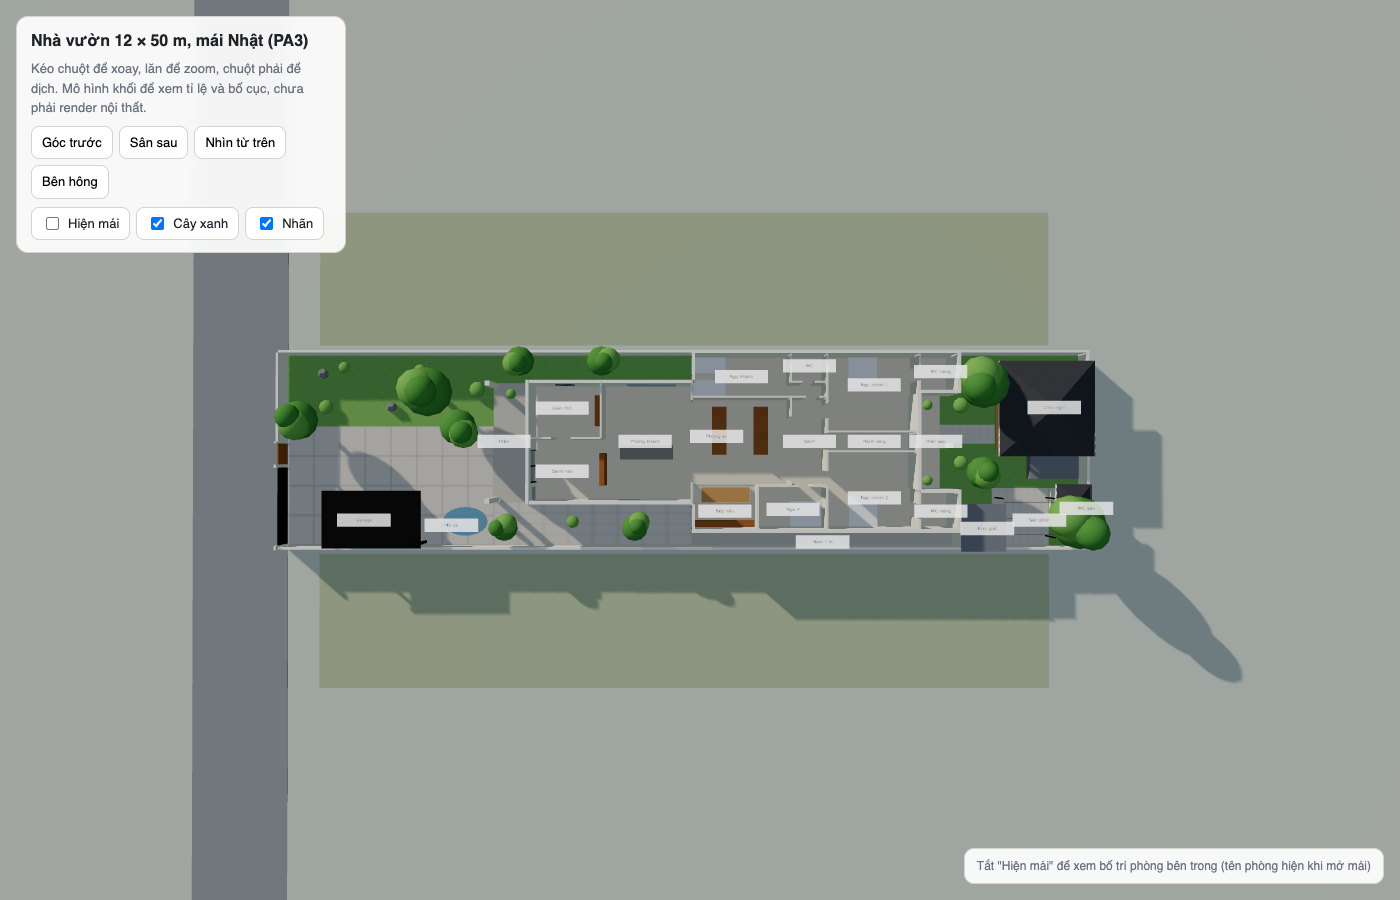
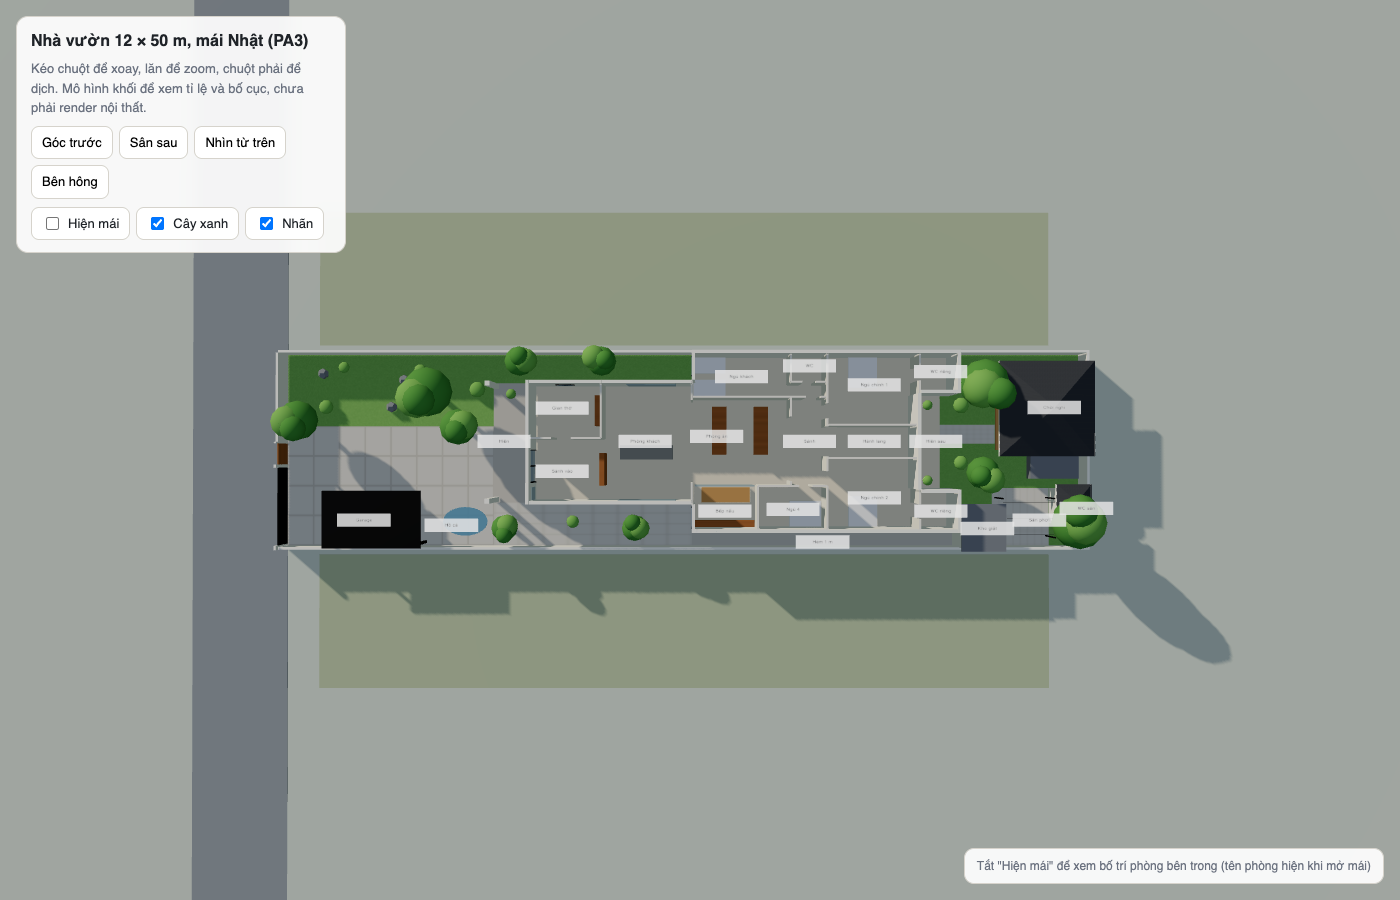
Hành lang ra sau rộng 2 m, cửa 2 cánh, master 4,5 x 5,6

diff --git a/mat-bang-nha-12x50.html b/mat-bang-nha-12x50.html
@@ -82,7 +82,7 @@
       <h2 style="margin-top:0">Ý đồ thiết kế</h2>
       <ul>
         <li><b>Gian trước 7,5 × 12,5 m</b>: hiên 2,5 m, rồi gian thờ 3,5 × 4,5 m bên trái và sảnh vào 4 × 4,5 m bên phải, sau đó là phòng khách 7,5 × 5,5 m. Gian thờ là phòng đầu tiên của nhà, bàn thờ đặt sát tường trong nhìn thẳng ra đường, có cửa sổ tròn bên hông và cửa sổ ra hiên. Cửa 2 cánh mở từ sảnh vào. Toàn bộ gian trước không có WC.</li>
-        <li><b>Gian ngang 11 × 13,8 m</b> chừa hẻm 1 m bên phải. Giữa nhà là phòng ăn 5,4 × 6 m dưới giếng trời. Bên trái là phòng ngủ khách 2,8 × 8,2 m chạy suốt hai hàng, 2 giường đơn 1 × 2 m đặt song song theo chiều dài phòng, đầu tựa tường trước. Cửa sổ tường trước nâng cao, mép dưới 1,9 m, để không nằm ngay sau đầu giường. Cuối phòng có WC riêng và hốc tủ áo. Bên phải là bếp nấu 2,8 × 4 m tựa tường hẻm, ngăn với phòng ăn bằng vách kính lùa và đảo 3 m, có cửa phụ ra hẻm. Sau bếp nấu là ngủ 4. Hàng giữa: sảnh. Hàng sau: ngủ chính 1 và 2 mỗi phòng 4,9 × 5,6 m, 27,4 m² trọn vẹn, cửa mở từ sảnh chính. Giữa hai phòng là hành lang 1,2 m, là lối duy nhất trong nhà đi ra hiên sau và sân sau.</li>
+        <li><b>Gian ngang 11 × 13,8 m</b> chừa hẻm 1 m bên phải. Giữa nhà là phòng ăn 5,4 × 6 m dưới giếng trời. Bên trái là phòng ngủ khách 2,8 × 8,2 m chạy suốt hai hàng, 2 giường đơn 1 × 2 m đặt song song theo chiều dài phòng, đầu tựa tường trước. Cửa sổ tường trước nâng cao, mép dưới 1,9 m, để không nằm ngay sau đầu giường. Cuối phòng có WC riêng và hốc tủ áo. Bên phải là bếp nấu 2,8 × 4 m tựa tường hẻm, ngăn với phòng ăn bằng vách kính lùa và đảo 3 m, có cửa phụ ra hẻm. Sau bếp nấu là ngủ 4. Hàng giữa: sảnh. Hàng sau: ngủ chính 1 và 2 mỗi phòng 4,5 × 5,6 m, 25,2 m² trọn vẹn, cửa mở từ sảnh chính. Giữa hai phòng là hành lang rộng 2 m, cuối có cửa 2 cánh 1,6 m ra hiên sau. Đây là lối chính trong nhà đi ra sân sau, đủ rộng để bưng đồ ăn ra chòi khi có tiệc.</li>
         <li><b>Hai WC riêng 2,4 × 2,6 m</b> nhô ra phía hiên sau, nằm trong mép mái đua sẵn có nên không phải làm thêm mái. Mỗi WC có ba mặt ngoài, cửa sổ hai phía, rất thoáng. Hiên sau thu lại còn 5,8 m nằm giữa hai WC, thành một góc ngồi kín đáo hơn. Mỗi phòng master có cửa kính ra thẳng hiên.</li>
         <li><b>4 WC</b>: WC riêng 1 và 2 cho hai phòng ngủ chính, nhô ra phía hiên sau. WC 2,2 × 1,9 m nằm trong phòng ngủ khách. WC sân vườn 2 × 2,2 m cạnh chòi và BBQ, dùng khi tiệc ngoài trời. Không WC nào nằm giữa nhà hay gần gian thờ. <b>Lưu ý:</b> phòng ngủ 4 hiện không có WC chung gần, xem mục cần cân nhắc.</li>
         <li><b>Hẻm 1 m</b> chạy từ sân bên phải gian trước ra thẳng sân sau. Đủ cho người đi lại thoải mái, mang đồ, đẩy xe rác hoặc máy cắt cỏ ra sau mà không phải đi xuyên nhà. Dắt xe máy thì hơi chật, cần khoảng 1,2 m.</li>
@@ -276,9 +276,9 @@ const rooms=[
   {n:'NGỦ 4',d:[29.5,33.7],w:[8.2,11.0],f:'--c-bed'},
   {n:'WC',d:[31.5,33.7],w:[0,1.9],f:'--c-wet',small:true,sub2:'2,2 × 1,9'},
   {n:'SẢNH',d:[31.5,33.7],w:[2.8,8.2],f:'--c-hall'},
-  {n:'NGỦ CHÍNH 1',d:[33.7,39.3],w:[0,4.9],f:'--c-bed',sub:'WC riêng phía sau'},
-  {n:'hành lang ra sau 1,2 m',d:[33.7,39.3],w:[4.9,6.1],f:'--c-hall',small:true,vert:true},
-  {n:'NGỦ CHÍNH 2',d:[33.7,39.3],w:[6.1,11.0],f:'--c-bed',sub:'WC riêng phía sau'},
+  {n:'NGỦ CHÍNH 1',d:[33.7,39.3],w:[0,4.5],f:'--c-bed',sub:'WC riêng phía sau'},
+  {n:'hành lang ra sau 2 m',d:[33.7,39.3],w:[4.5,6.5],f:'--c-hall',small:true,vert:true},
+  {n:'NGỦ CHÍNH 2',d:[33.7,39.3],w:[6.5,11.0],f:'--c-bed',sub:'WC riêng phía sau'},
   {n:'WC RIÊNG 1',d:[39.3,41.7],w:[0,2.6],f:'--c-wet'},
   {n:'HIÊN SAU 1,8 × 5,8 · 10,4 m²',d:[39.3,41.1],w:[2.6,8.4],f:'--c-living',open:true,small:true,vert:true},
   {n:'WC RIÊNG 2',d:[39.3,41.7],w:[8.4,11.0],f:'--c-wet'},
@@ -320,7 +320,7 @@ const rooms=[
   rect(g,m,26.1,29.1,8.35,9.25,{fill:'#d9c6a5',stroke:'#8b5a2b','stroke-width':1,rx:2}); label(g,m,27.6,8.9,'ĐẢO 3 m · buffet',{size:9,fill:'#5b3a1a'});
   function bed(d1,d2,w1,w2,head){rect(g,m,d1,d2,w1,w2,F); const h=0.35; if(head==='w0')rect(g,m,d1+0.1,d2-0.1,w1,w1+h,{fill:'#e5e7eb',rx:2}); if(head==='w1')rect(g,m,d1+0.1,d2-0.1,w2-h,w2,{fill:'#e5e7eb',rx:2}); if(head==='d1')rect(g,m,d2-h,d2,w1+0.1,w2-0.1,{fill:'#e5e7eb',rx:2}); if(head==='ds')rect(g,m,d1,d1+h,w1+0.1,w2-0.1,{fill:'#e5e7eb',rx:2});}
   bed(25.6,27.6,0.2,1.2,'ds'); bed(25.6,27.6,1.6,2.6,'ds'); rect(g,m,25.6,26.0,1.25,1.55,F); rect(g,m,31.7,33.5,2.2,2.7,{fill:'#e5e7eb',rx:2}); bed(31.6,33.6,9.2,10.8,'d1'); bed(35.3,37.1,0.1,2.1,'w0'); bed(35.3,37.1,8.9,10.9,'w1');
-  rect(g,m,36.4,39.1,4.3,4.8,{fill:'#e5e7eb',rx:2}); rect(g,m,36.4,39.1,6.2,6.7,{fill:'#e5e7eb',rx:2}); // tủ áo
+  rect(g,m,36.4,39.1,3.9,4.4,{fill:'#e5e7eb',rx:2}); rect(g,m,36.4,39.1,6.6,7.1,{fill:'#e5e7eb',rx:2}); // tủ áo
   function plant(d,w,r){const cx=m.x(d),cy=m.y(w),R=(r||0.3)*m.S; el('circle',{cx,cy,r:R,fill:'#4f9a5a'},g); el('circle',{cx:cx-R*.3,cy:cy-R*.3,r:R*.45,fill:'#7cc27f'},g);}
   plant(14.2,2.5,0.3); plant(16.3,6.0,0.3); plant(24.9,2.2,0.25); plant(24.9,8.9,0.22); plant(31.0,7.8,0.18); plant(32.6,5.0,0.2); plant(34.3,5.5,0.18); plant(40.2,3.2,0.3); plant(40.2,7.9,0.3);
   rect(g,m,26.6,30.4,3.1,6.5,{fill:'none',stroke:'#3b82f6','stroke-width':1,'stroke-dasharray':'3 3'}); // giếng trời
@@ -350,9 +350,8 @@ const rooms=[
   wall(31.5,0,31.5,1.9,ti); wall(31.5,2.8,31.5,8.2,ti);
   wall(31.5,1.9,33.7,1.9,ti);
   wall(33.7,0,33.7,11.0,ti);
-  wall(33.7,4.9,39.3,4.9,ti); wall(33.7,6.1,39.3,6.1,ti);
+  wall(33.7,4.5,39.3,4.5,ti); wall(33.7,6.5,39.3,6.5,ti);
   wall(39.3,0,39.3,2.6,ti); wall(39.3,8.4,39.3,11.0,ti);
-  [5.75].forEach(w=>el('rect',{x:m.x(40.9)-4,y:m.y(w)-4,width:8,height:8,fill:W},g));
 
   function opening(d1,w1,d2,w2,fill){el('line',{x1:m.x(d1),y1:m.y(w1),x2:m.x(d2),y2:m.y(w2),stroke:fill,'stroke-width':t+1},g);
     el('line',{x1:m.x(d1),y1:m.y(w1),x2:m.x(d2),y2:m.y(w2),stroke:css('--muted'),'stroke-width':1,'stroke-dasharray':'4 3'},g);}
@@ -361,7 +360,7 @@ const rooms=[
   opening(20,5.4,20,9.2,css('--c-living'));
   opening(25.5,3.0,25.5,8.0,css('--c-kitchen'));
   opening(31.5,4.0,31.5,7.9,css('--c-hall'));
-  opening(33.7,5.0,33.7,6.0,css('--c-hall'));
+  opening(33.7,4.6,33.7,6.4,css('--c-hall'));
   door(15.5,6.0,15.5,8.0);
   door(17,5.3,18.2,5.3);
   door(32.4,2.8,33.3,2.8); door(32.0,8.2,32.8,8.2);   // ngủ khách, ngủ 4
@@ -370,7 +369,7 @@ const rooms=[
   door(32.2,1.9,33.0,1.9);
   door(33.7,3.2,33.7,4.1); door(33.7,7.3,33.7,8.2);       // cửa 2 master từ sảnh
   door(39.3,0.9,39.3,1.8); door(39.3,9.3,39.3,10.2);       // master -> WC riêng
-  door(39.3,5.05,39.3,5.95);                               // hành lang ra hiên sau
+  door(39.3,4.7,39.3,6.3);                               // hành lang ra hiên sau
   el('line',{x1:m.x(15.5),y1:m.y(2.5),x2:m.x(15.5),y2:m.y(4.5),stroke:'#8b5a2b','stroke-width':6,'stroke-dasharray':'3 2'},g); win(15.5,8.3,15.5,9.1);
   rect(g,m,19.85,20.15,6.2,8.2,{fill:'#b5763f'}); for(let w=6.3;w<8.2;w+=0.25) el('line',{x1:m.x(19.85),y1:m.y(w),x2:m.x(20.15),y2:m.y(w),stroke:'#f4f1ea','stroke-width':1},g);
   label(g,m,20.6,7.2,'lam gỗ',{size:8,fill:'#8b5a2b',rot:-90});
@@ -379,7 +378,7 @@ const rooms=[
   el('line',{x1:m.x(25.5),y1:m.y(0.3),x2:m.x(25.5),y2:m.y(1.5),stroke:'#7cc4ff','stroke-width':5,'stroke-dasharray':'4 2'},g); label(g,m,25.1,0.9,'cửa sổ cao',{size:8,fill:'#1d5f8a',rot:-90}); win(25.5,9.5,25.5,10.8);
   win(27.8,11.0,29.2,11.0); win(30.2,11.0,31.4,11.0); win(32,11.0,33.2,11.0); win(37.4,11.0,38.8,11.0); win(40.0,11.0,41.2,11.0);
   win(41.7,0.5,41.7,2.1); win(41.7,8.9,41.7,10.5); win(40.0,2.6,40.9,2.6); win(40.0,8.4,40.9,8.4);   // cửa sổ WC riêng
-  win(39.3,2.9,39.3,4.6); win(39.3,6.4,39.3,8.1);   // cửa kính master ra hiên
+  win(39.3,2.9,39.3,4.3); win(39.3,6.7,39.3,8.1);   // cửa kính master ra hiên
 
   label(g,m,19.2,-0.8,'GIAN TRƯỚC 7,5 × 12,5 m',{size:12,bold:true});
   label(g,m,33.6,-0.8,'GIAN NGANG 11 × 13,8 m (+ 2 WC riêng và hiên sau 2,4 m, hẻm 1 m)',{size:12,bold:true});
@@ -390,7 +389,7 @@ const rooms=[
   dimV(g,m,0,1.8,12.6,'1,8'); dimV(g,m,1.8,9.3,12.6,'7,5'); dimV(g,m,9.3,12,12.6,'2,7');
   dim(g,m,25.5,33.7,-0.35,'ngủ khách dài 8,2 m (gồm WC 2,2)'); dim(g,m,25.5,29.5,11.8,'bếp nấu 4'); dim(g,m,29.5,33.7,11.8,'ngủ 4: 4,2');
   label(g,m,20.5,0.9,'dải cây xanh 1,8 m',{size:10,fill:css('--muted')}); label(g,m,19,10.7,'sân lát bên phải 2,7 m',{size:10,fill:css('--muted')});
-  dimV(g,m,0,4.9,42.4,'4,9'); dimV(g,m,4.9,6.1,42.4,'1,2'); dimV(g,m,6.1,11.0,42.4,'4,9'); dimV(g,m,11.0,12,42.4,'1');
+  dimV(g,m,0,4.5,42.4,'4,5'); dimV(g,m,4.5,6.5,42.4,'2'); dimV(g,m,6.5,11.0,42.4,'4,5'); dimV(g,m,11.0,12,42.4,'1');
   dimV(g,m,1.8,5.3,15.1,'3,5'); dimV(g,m,5.3,9.3,15.1,'4');
 
   const tbl=document.getElementById('areas');

diff --git a/mat-dung-mat-cat.html b/mat-dung-mat-cat.html
@@ -40,7 +40,7 @@
 
   <h2>4. Mặt cắt B-B (cắt ngang qua 2 phòng ngủ chính)</h2>
   <div class="card"><svg id="secB"></svg>
-    <p class="note">Hẻm 1 m bên phải, mái đua 0,3 m có máng xối nên nước mưa không đổ thẳng xuống hẻm. HL là hành lang 1,2 m ra hiên sau. Tường rào ranh cao 1,8 m.</p>
+    <p class="note">Hẻm 1 m bên phải, mái đua 0,3 m có máng xối nên nước mưa không đổ thẳng xuống hẻm. HL là hành lang 2 m ra hiên sau. Tường rào ranh cao 1,8 m.</p>
   </div>
 
   <div class="card" style="margin-top:16px">
@@ -171,19 +171,19 @@ const tri=(a,b,h)=>(b-a)/2*Math.tan(Math.PI/6)+h;
   L(m,0,CE,11.0,CE,{stroke:'#8a8f96','stroke-width':3});
   R(m,0,11.0,FL-0.15,FL,{fill:C('--cut')}); R(m,-0.2,11.2,0,FL-0.15,{fill:'#cfcbc3'});
   R(m,-0.1,0.1,FL,CE+0.2,{fill:C('--cut')}); R(m,10.9,11.1,FL,CE+0.2,{fill:C('--cut')});
-  R(m,4.85,4.95,FL,CE,{fill:C('--cut')}); R(m,6.05,6.15,FL,CE,{fill:C('--cut')});
+  R(m,4.45,4.55,FL,CE,{fill:C('--cut')}); R(m,6.45,6.55,FL,CE,{fill:C('--cut')});
   // fence on right boundary + gutter
   R(m,11.95,12.1,0,1.8,{fill:C('--wall'),stroke:C('--wallline')});
   R(m,11.05,11.35,EA-0.2,EA,{fill:'#8a8f96'}); T(m,12.6,EA-0.1,'máng xối',{size:10,fill:C('--muted'),anchor:'start'});
   T(m,11.5,0.25,'hẻm 1 m',{size:10,fill:C('--muted')}); T(m,12.6,1.8,'rào ranh 1,8',{size:10,fill:C('--muted'),anchor:'start'});
   // beds
   R(m,0.1,2.1,FL,FL+0.5,{fill:'#fff',stroke:'#9bb6d4'}); R(m,8.9,10.9,FL,FL+0.5,{fill:'#fff',stroke:'#9bb6d4'});
-  R(m,4.3,4.85,FL,CE,{fill:'#e5e7eb',stroke:'#b8b3a8'}); R(m,6.15,6.7,FL,CE,{fill:'#e5e7eb',stroke:'#b8b3a8'});
+  R(m,3.9,4.45,FL,CE,{fill:'#e5e7eb',stroke:'#b8b3a8'}); R(m,6.55,7.1,FL,CE,{fill:'#e5e7eb',stroke:'#b8b3a8'});
   T(m,1.9,FL+2.0,'NGỦ CHÍNH 1',{size:11,bold:true}); T(m,5.5,FL+2.4,'HL',{size:10,bold:true}); T(m,9.0,FL+2.0,'NGỦ CHÍNH 2',{size:11,bold:true});
-  T(m,4.55,FL+3.1,'tủ',{size:9,fill:C('--muted')}); T(m,6.45,FL+3.1,'tủ',{size:9,fill:C('--muted')});
+  T(m,4.15,FL+3.1,'tủ',{size:9,fill:C('--muted')}); T(m,6.8,FL+3.1,'tủ',{size:9,fill:C('--muted')});
   T(m,5.5,rC-1.5,'áp mái cao '+(rC-CE).toFixed(1).replace('.',',')+' m',{size:10,fill:C('--muted')});
   levels(m,-1.2,[]);
-  hdim(m,0,4.9,-0.5,'4,9'); hdim(m,4.9,6.1,-0.5,'1,2'); hdim(m,6.1,11.0,-0.5,'4,9'); hdim(m,11.0,12,-0.5,'1');
+  hdim(m,0,4.5,-0.5,'4,5'); hdim(m,4.5,6.5,-0.5,'2'); hdim(m,6.5,11.0,-0.5,'4,5'); hdim(m,11.0,12,-0.5,'1');
   levels(m,13.0,[[FL,'+0,45'],[CE,'+3,85'],[rC,'+'+rC.toFixed(2).replace('.',',')]]);
 })();
 </script>

diff --git a/3d-nha-12x50.html b/3d-nha-12x50.html
@@ -185,9 +185,9 @@ function win(d,w1,w2,y0=0.9,y1=2.4){box(d-0.03,d+0.03,w1,w2,y0,y1,M.glass,house,
 function winZ(w,d1,d2,y0=2.0,y1=2.7){box(d1,d2,w-0.03,w+0.03,y0,y1,M.glass,house,false);}
 win(25.5,0.3,1.5,1.9+0.15,2.6+0.15); win(25.5,9.5,10.8);
 winZ(11.0,27,29); winZ(11.0,32,33.2); winZ(11.0,37.4,38.8); winZ(11.0,40,41.2);            // cửa sổ cao ra hẻm
-win(41.7,0.5,2.1,1.6,2.5); win(41.7,8.9,10.5,1.6,2.5); win(39.3,2.9,4.6,0.2,2.5); win(39.3,6.4,8.1,0.2,2.5);
-box(39.3-0.02,39.3+0.02,5.05,5.95,0,2.3,M.wood,house,false);
-box(40.9,41.2,5.6,5.9,0,H,M.wall,house);
+win(41.7,0.5,2.1,1.6,2.5); win(41.7,8.9,10.5,1.6,2.5); win(39.3,2.9,4.3,0.2,2.5); win(39.3,6.7,8.1,0.2,2.5);
+box(39.3-0.02,39.3+0.02,4.7,6.3,0,2.3,M.wood,house,false);
+
 // interior partitions
 const inner=new THREE.Group(); house.add(inner); const IH=3.2, TI=0.12;
 function iw(d1,w1,d2,w2){ if(d1===d2) box(d1-TI/2,d1+TI/2,Math.min(w1,w2),Math.max(w1,w2),0,IH,M.inner,inner); else box(Math.min(d1,d2),Math.max(d1,d2),w1-TI/2,w1+TI/2,0,IH,M.inner,inner); }
@@ -197,8 +197,8 @@ iw(25.5,2.8,32.4,2.8); iw(33.3,2.8,33.7,2.8); iw(29.5,8.2,32.0,8.2); iw(32.8,8.2
 box(25.7,29.3,8.17,8.23,0.15,IH,M.glass,inner,false);
 iw(31.5,0,31.5,1.9); iw(31.5,2.8,31.5,4.0); iw(31.5,7.9,31.5,8.2);
 iw(31.5,1.9,32.2,1.9); iw(33.0,1.9,33.7,1.9);
-iw(33.7,0,33.7,3.2); iw(33.7,4.1,33.7,5.0); iw(33.7,6.0,33.7,7.3); iw(33.7,8.2,33.7,11.0);
-iw(33.7,4.9,39.3,4.9); iw(33.7,6.1,39.3,6.1);
+iw(33.7,0,33.7,3.2); iw(33.7,4.1,33.7,4.6); iw(33.7,6.4,33.7,7.3); iw(33.7,8.2,33.7,11.0);
+iw(33.7,4.5,39.3,4.5); iw(33.7,6.5,39.3,6.5);
 iw(39.3,0,39.3,0.9); iw(39.3,1.8,39.3,2.6); iw(39.3,8.4,39.3,9.3); iw(39.3,10.2,39.3,11.0);
 // interior hints
 box(19.45,19.95,2.6,4.5,0.15,1.0,M.wood,inner);                 // bàn thờ

diff --git a/BOI-CANH-DU-AN.md b/BOI-CANH-DU-AN.md
@@ -16,7 +16,7 @@
 - Gian ngang 11 x 13,8 m, hẻm 1 m bên phải thông ra sân sau.
   - Hàng trước: ngủ khách 2,8 x 8,2 chạy suốt 2 hàng, 2 giường đơn, WC trong phòng | phòng ăn 5,4 x 6 ở tâm nhà, giếng trời, 2 bàn 8 chỗ | bếp nấu 2,8 x 4 tựa tường hẻm + đảo buffet 3 m.
   - Hàng giữa: sảnh | ngủ 4 (2,8 x 4,2).
-  - Hàng sau: ngủ chính 1 và 2 (4,9 x 5,6) | hành lang 1,2 m ra hiên sau.
+  - Hàng sau: ngủ chính 1 và 2 (4,5 x 5,6) | hành lang 2 m ra hiên sau.
   - 2 WC riêng 2,4 x 2,6 nhô ra sau dưới mái đua, hiên sau 5,8 m ở giữa.
 - Sân sau 8,3 m: kho giặt, sân phơi, chòi 5 x 5 + BBQ, WC sân vườn cạnh chòi.
 - Đã kiểm theo phong thủy (bảng trong mat-bang-nha-12x50.html). Chưa có hướng nhà và năm sinh gia chủ.
